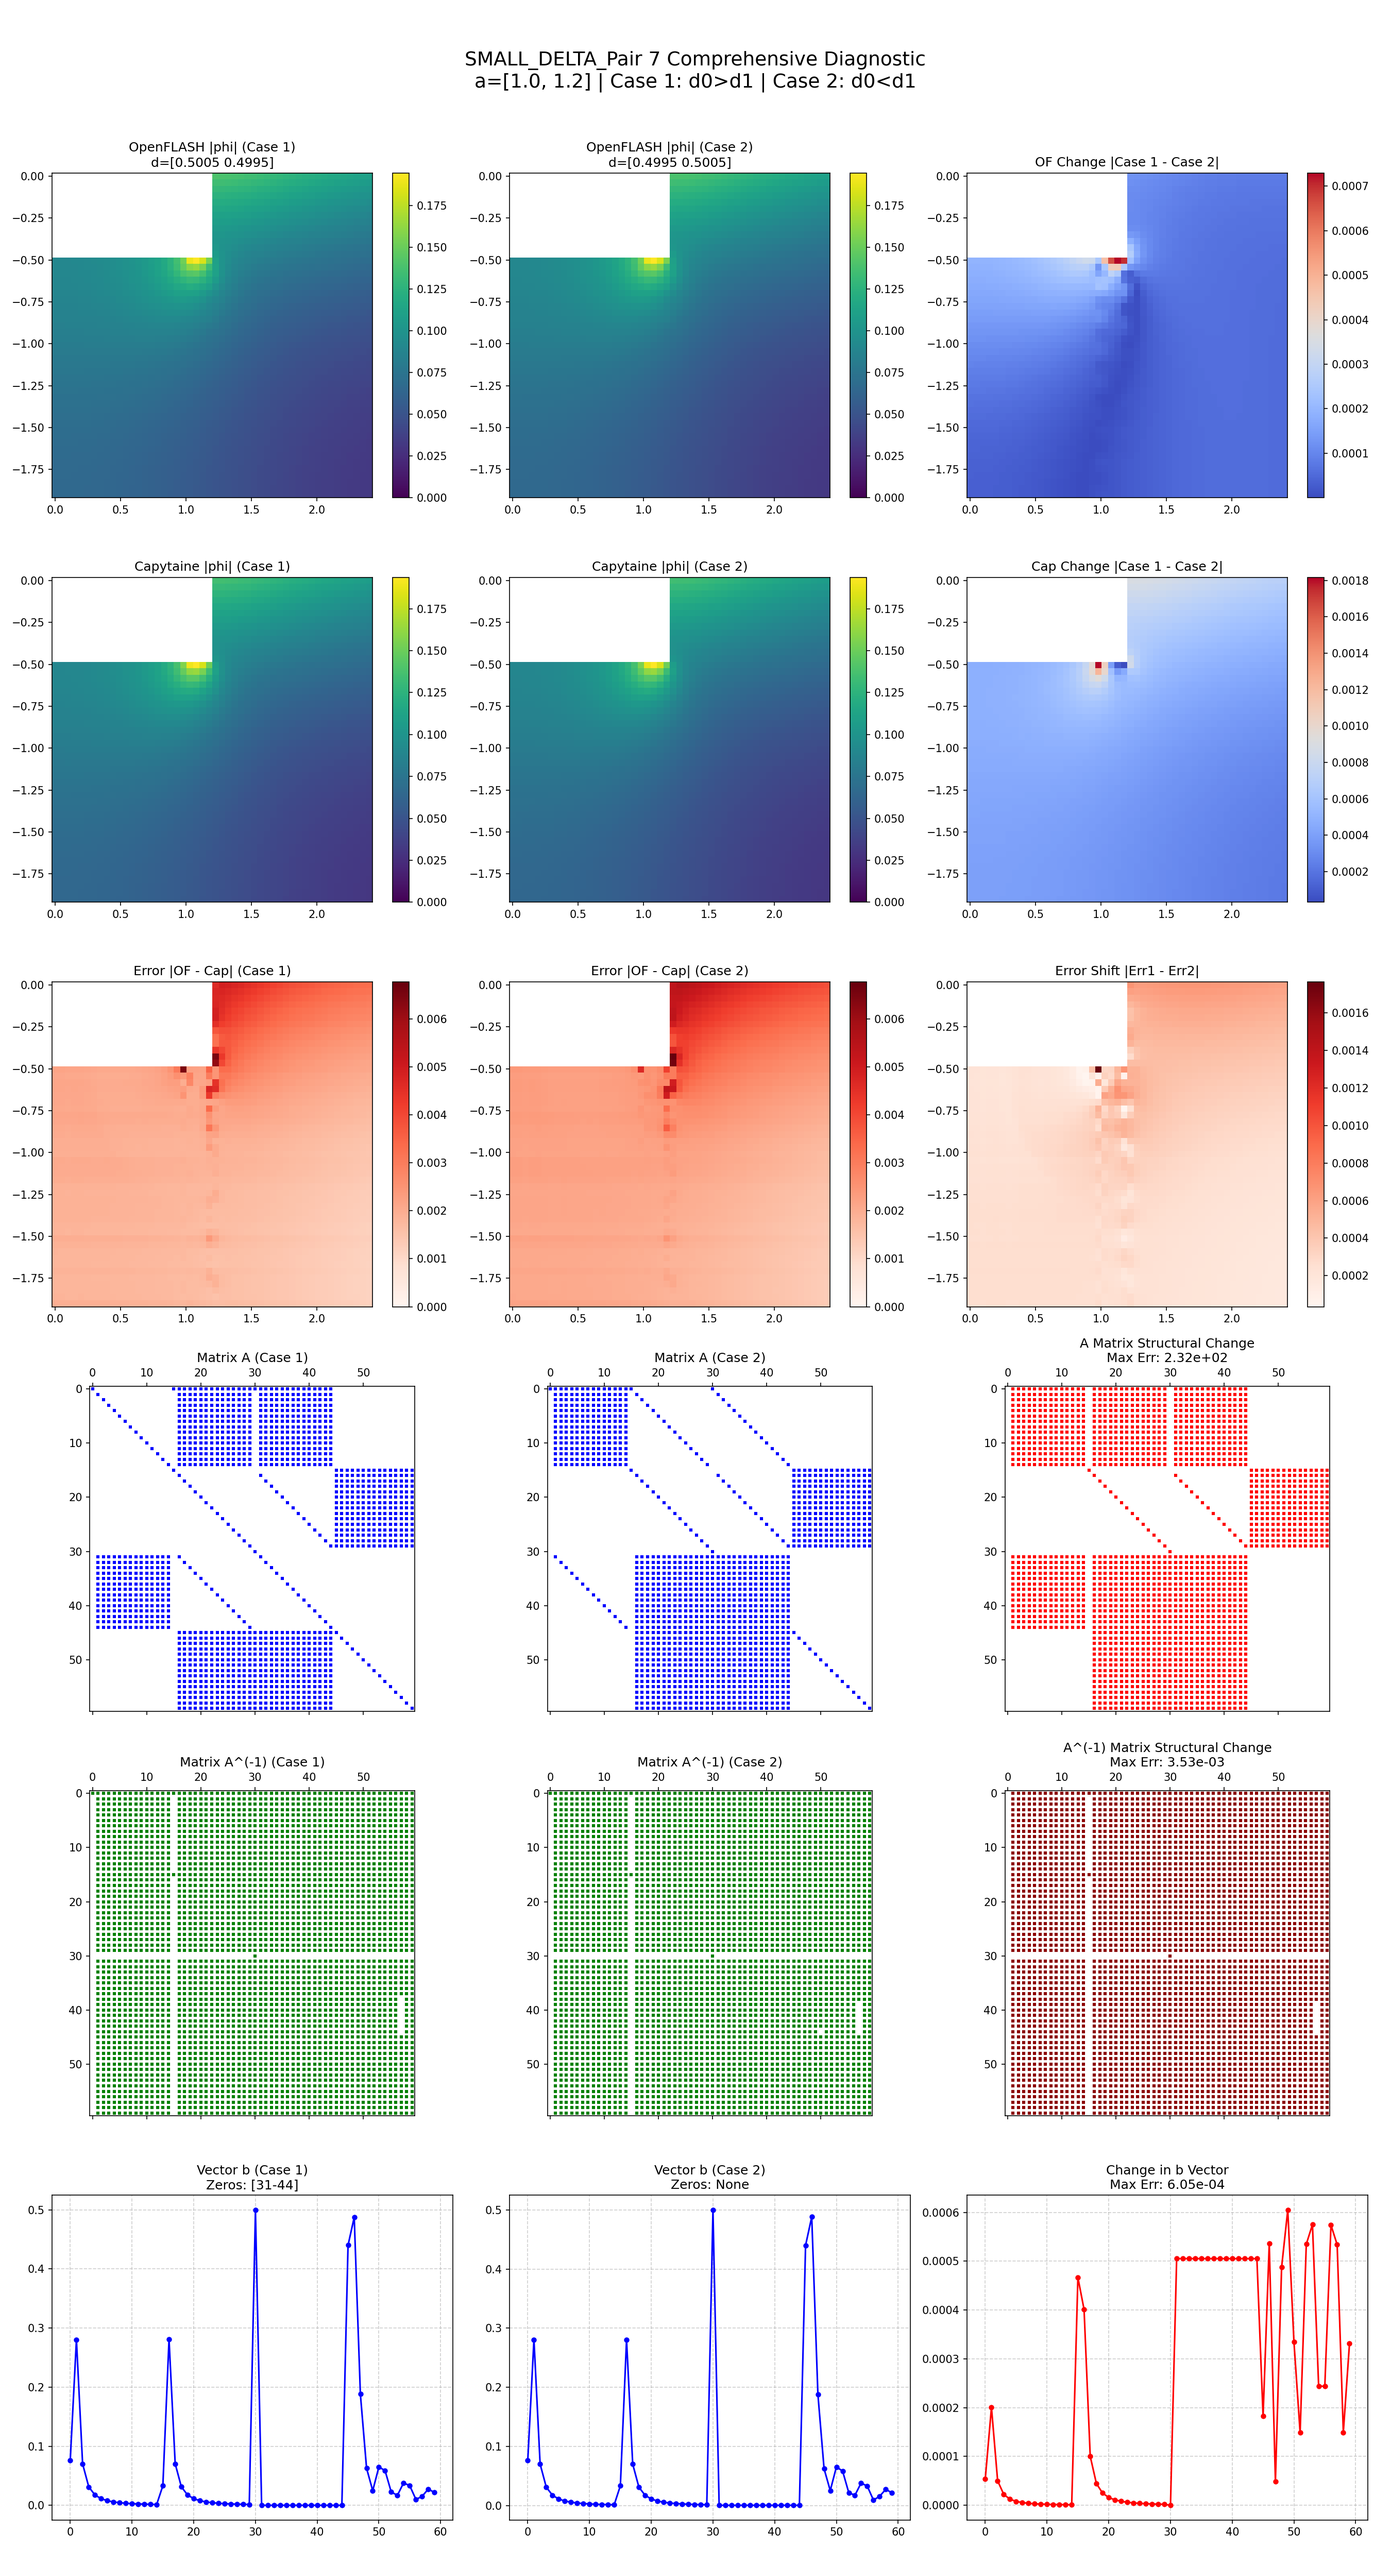
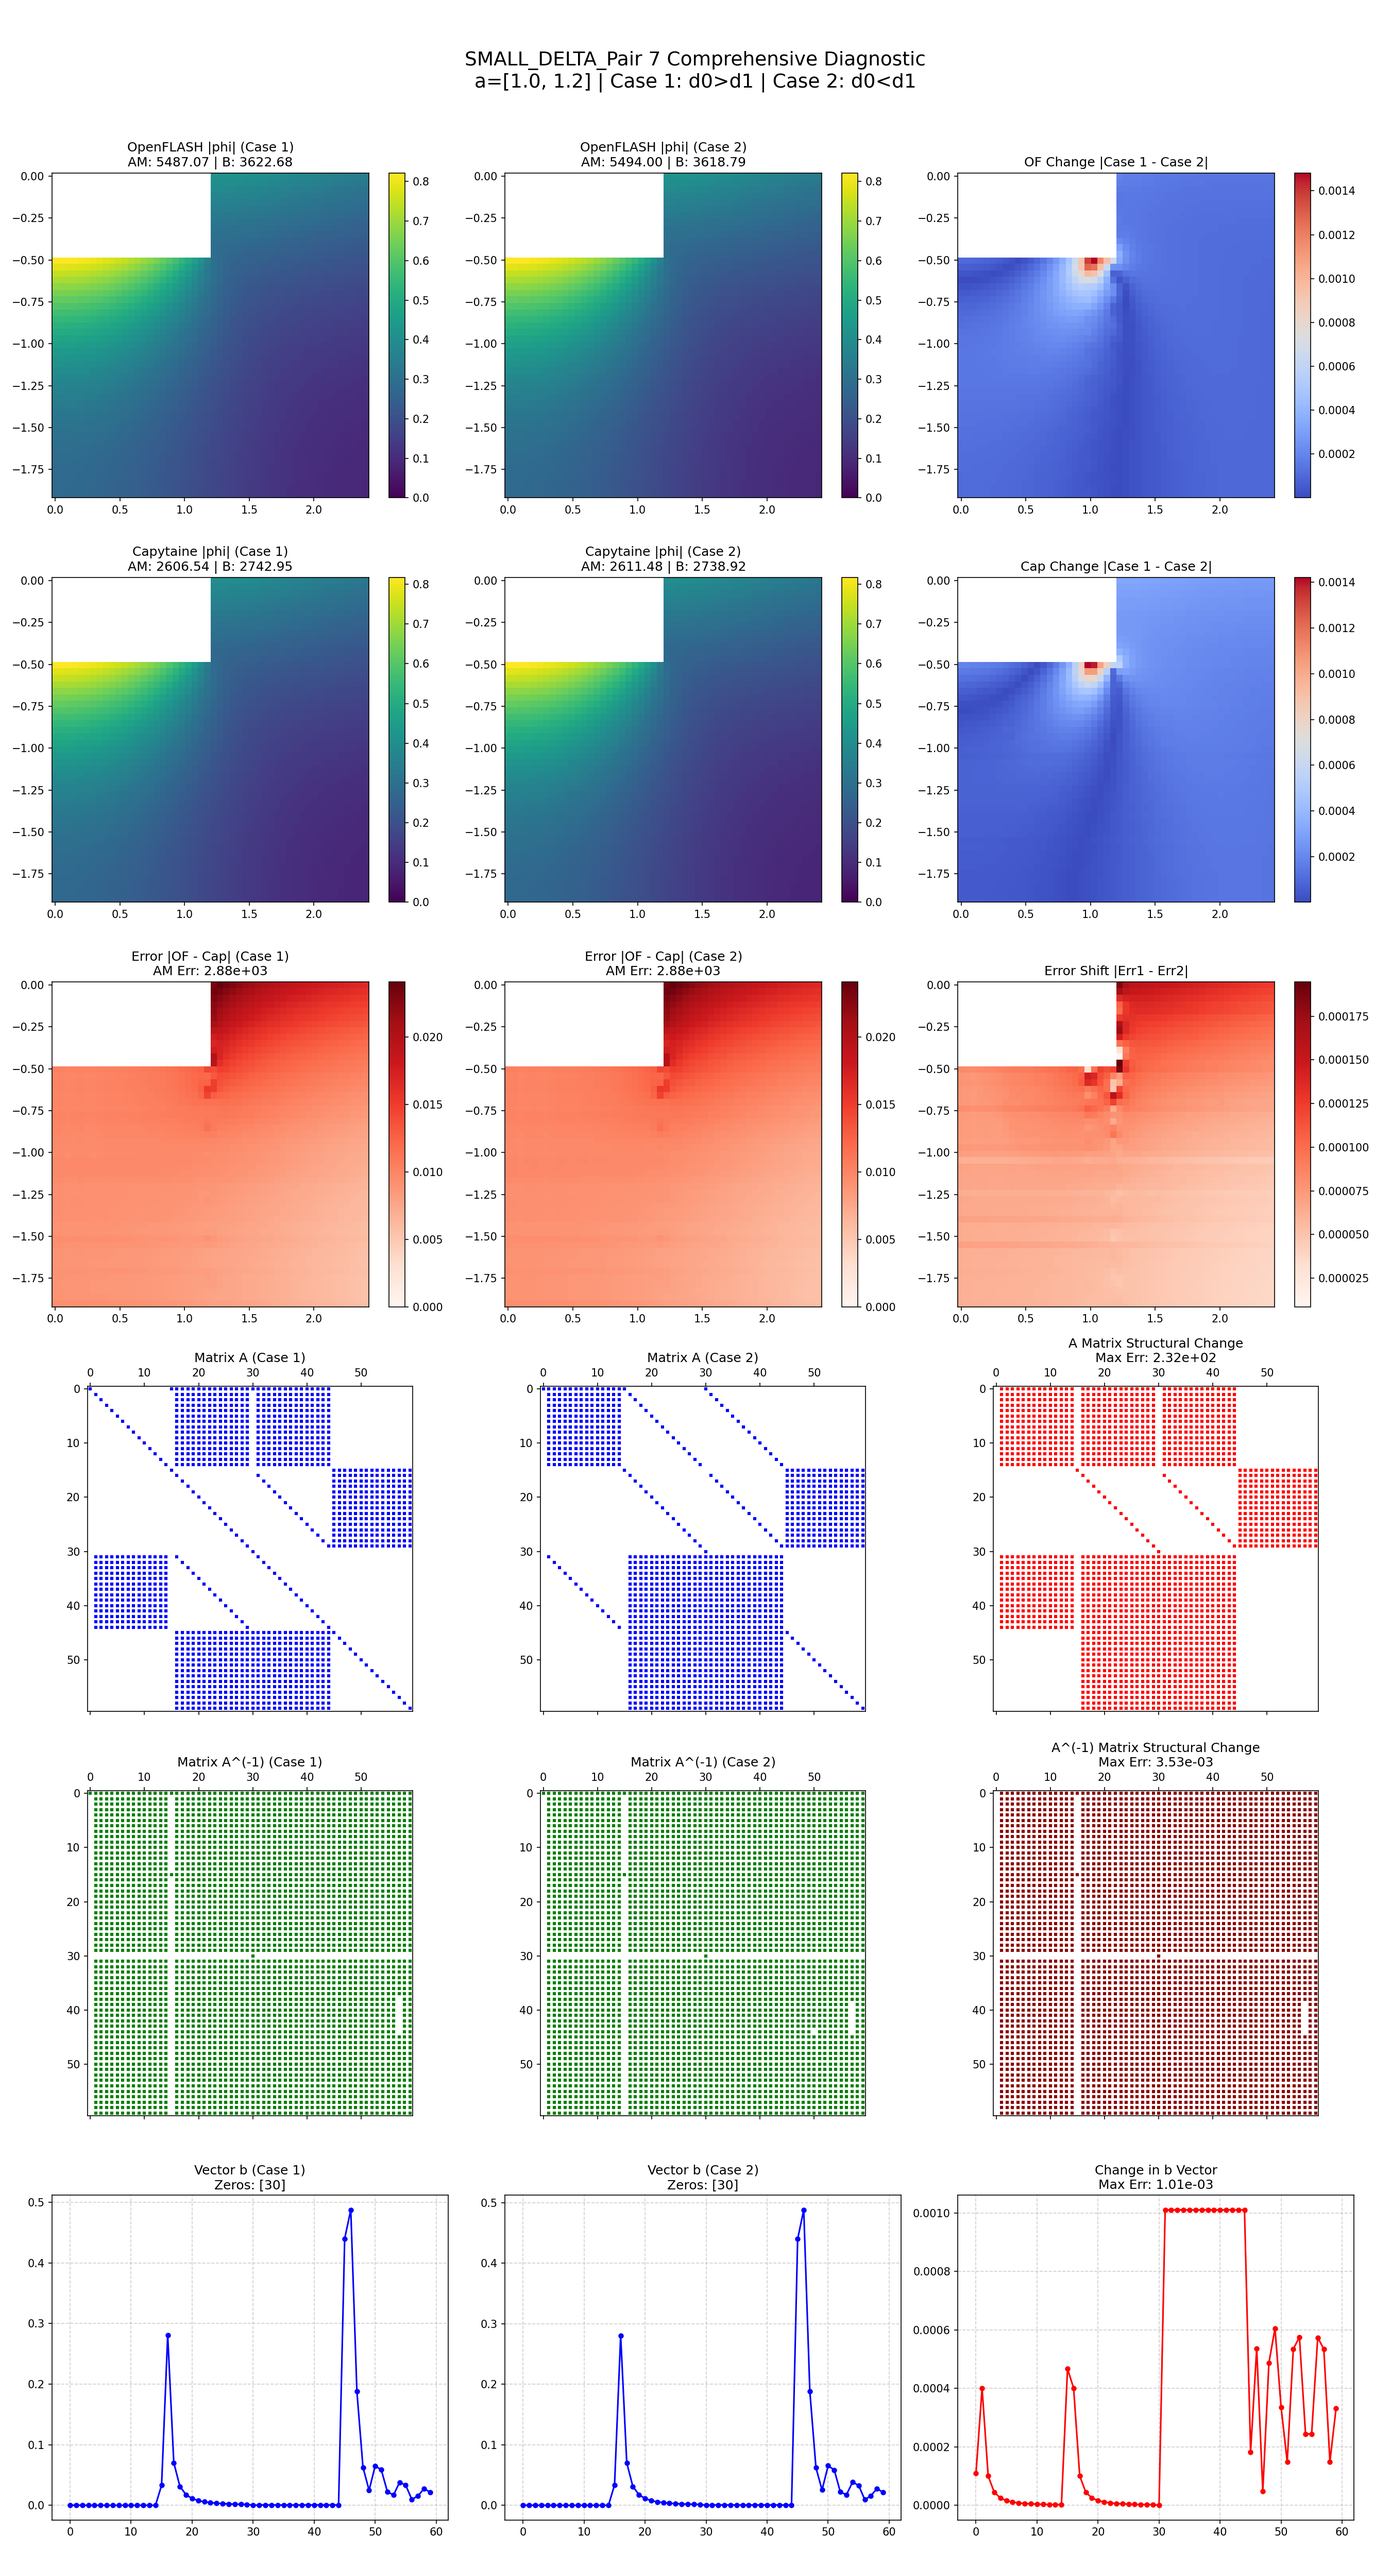
debugging hydrocoeffs

diff --git a/package/test/debug_all_heaving.py b/package/test/debug_all_heaving.py
@@ -34,14 +34,14 @@ for i, sub in enumerate(SUBSETS):
     d_min = min(sub["d"])
     d_max = max(sub["d"])
     
-    # Case 1: d0 > d1 (Inner region is deeper)
+    # Case 1: d0 > d1
     ALL_CONFIGS[f"config3_pair{i+1}_case1"] = {
         "h": 1.9, "a": np.array(sub["a"]), "d": np.array([d_max, d_min]),
         "heaving_map": [True, True], "body_map": [0, 1], "m0": 1.0, "NMK": [15]*3, 
         "R_range": np.linspace(0.0, 2 * sub["a"][1], num=50), "Z_range": np.linspace(0, -1.9, num=50),
     }
     
-    # Case 2: d0 < d1 (Outer region is deeper)
+    # Case 2: d0 < d1
     ALL_CONFIGS[f"config3_pair{i+1}_case2"] = {
         "h": 1.9, "a": np.array(sub["a"]), "d": np.array([d_min, d_max]),
         "heaving_map": [True, True], "body_map": [0, 1], "m0": 1.0, "NMK": [15]*3, 
@@ -49,7 +49,7 @@ for i, sub in enumerate(SUBSETS):
     }
 
 # =====================================================================
-# 2. CAPYTAINE MESH GENERATION (From Notebook)
+# 2. CAPYTAINE MESH GENERATION
 # =====================================================================
 def get_points(a, d):
     d_prime = list(d) + [0]
@@ -106,7 +106,6 @@ def build_capytaine_body(a, d, heaving, t_densities, face_units):
         region = i if p2[1] < p3[1] else i + 1
         meshes, mask, panel_ct = faces_and_heaves(heaving, region, p2, p3, f_densities[2 * i + 1], t_densities[region], meshes, mask, panel_ct)
     
-    # Suppress output warnings for unclosed meshes
     real_stdout = sys.stdout
     sys.stdout = open(os.devnull, "w")
     body = cpt.FloatingBody(meshes)
@@ -116,16 +115,16 @@ def build_capytaine_body(a, d, heaving, t_densities, face_units):
     return body
 
 # =====================================================================
-# 3. ANALYSIS ENGINES (UPDATED FOR SUPERPOSITION)
+# 3. ANALYSIS ENGINES
 # =====================================================================
 def analyze_openflash(config_name):
     p = ALL_CONFIGS[config_name]
     m0, freq = p["m0"], omega(p["m0"], p["h"], g)
     
-    # 1. Build Base Problem to extract Matrix A (A is independent of heaving)
+    # Base matrix A
     geom_base = BasicRegionGeometry.from_vectors(
         a=p["a"], d=p["d"], h=p["h"], NMK=p["NMK"], 
-        body_map=p["body_map"], heaving_map=[True, False] # Satisfies the <=1 assertion
+        body_map=p["body_map"], heaving_map=[True, False] 
     )
     prob_base = MEEMProblem(geom_base)
     prob_base.set_frequencies(np.array([freq]))
@@ -135,12 +134,13 @@ def analyze_openflash(config_name):
     A = engine.assemble_A_multi(prob_base, m0)
     A_inv = np.linalg.inv(A)
     
-    # 2. Superposition Loop
     phi_total = None
     b_total = np.zeros(A.shape[0], dtype=complex)
     
+    AM_matrix = np.zeros((2, 2))
+    B_matrix = np.zeros((2, 2))
+    
     for i in [0, 1]:
-        # Activate one body at a time
         active_map = [False, False]
         active_map[i] = True
         
@@ -152,59 +152,67 @@ def analyze_openflash(config_name):
         prob_i.set_frequencies(np.array([freq]))
         engine_i = MEEMEngine(problem_list=[prob_i])
         
-        # Assemble b and solve for this specific body
         engine_i.update_forcing(prob_i)
         b_i = engine_i.assemble_b_multi(prob_i, m0)
         x_i = np.linalg.solve(A, b_i)
         
-        # Get potentials for this body
+        b_total += b_i
+        
         pot_dict = engine_i.calculate_potentials(
             prob_i, x_i, m0, spatial_res=50, sharp=False, 
             R_range=p["R_range"], Z_range=p["Z_range"]
         )
         
-        # Accumulate the results
-        b_total += b_i
         if phi_total is None:
             phi_total = pot_dict['phi']
-            R = pot_dict['R']
-            Z = pot_dict['Z']
+            R, Z = pot_dict['R'], pot_dict['Z']
         else:
             phi_total += pot_dict['phi']
             
-    return phi_total, R, Z, A, A_inv, b_total, freq
+        # Get 2x2 Hydro Coeffs
+        coeffs = engine_i.compute_hydrodynamic_coefficients(prob_i, x_i, m0, modes_to_calculate=[0, 1], rho=1023)
+        for coeff in coeffs:
+            j = coeff['mode']
+            AM_matrix[j, i] = coeff['real']
+            B_matrix[j, i] = coeff['imag']
+            
+    total_AM = np.sum(AM_matrix)
+    total_B = np.sum(B_matrix)
+        
+    return phi_total, R, Z, A, A_inv, b_total, freq, total_AM, total_B
 
 def analyze_capytaine(config_name, R_grid, Z_grid, omega_val):
     p = ALL_CONFIGS[config_name]
     a, d, h, m0 = p["a"], p["d"], p["h"], p["m0"]
     
-    # Capytaine CAN handle both bodies heaving at once natively
-    active_heaving_map = [True, True] 
-    
-    # Fast mesh settings for debug script
-    body = build_capytaine_body(a, d, active_heaving_map, t_densities=[30, 30], face_units=60)
+    body = build_capytaine_body(a, d, [True, True], t_densities=[30, 30], face_units=60)
     
     solver = cpt.BEMSolver()
     rad_problem = cpt.RadiationProblem(body=body, wavenumber=m0, water_depth=h, rho=1023)
     result = solver.solve(rad_problem)
     
-    # Map points to R_grid, Z_grid (Setting Y=0 for 2D slice)
+    # --- BULLETPROOF EXTRACTION ---
+    # Handle both flat dicts {'Heave': 1.0} and nested dicts {'Heave': {'Heave': 1.0}}
+    am_val = result.added_mass["Heave"]
+    cap_am = float(am_val["Heave"] if isinstance(am_val, dict) else am_val)
+    
+    b_val = result.radiation_damping["Heave"]
+    cap_b = float(b_val["Heave"] if isinstance(b_val, dict) else b_val)
+    # ------------------------------
+    
     points = np.column_stack((R_grid.ravel(), np.zeros_like(R_grid.ravel()), Z_grid.ravel()))
     phi_cap_raw = solver.compute_potential(points, result)
     
-    # Convert Phase/Amplitude to match OpenFLASH
     phi_cap_conv = (phi_cap_raw.imag * (-1.0/omega_val)) + 1j * (phi_cap_raw.real * (1.0/omega_val))
     phi_cap_grid = phi_cap_conv.reshape(R_grid.shape)
     
-    # Mask out inside body
     regions = [(R_grid <= a[0]) & (Z_grid > -d[0])]
     for i in range(1, len(a)):
         regions.append((R_grid > a[i-1]) & (R_grid <= a[i]) & (Z_grid > -d[i]))
     for reg in regions:
         phi_cap_grid[reg] = np.nan
         
-    return phi_cap_grid
-
+    return phi_cap_grid, cap_am, cap_b
 def format_indices(indices):
     if len(indices) == 0: return "None"
     ranges, start, end = [], indices[0], indices[0]
@@ -226,23 +234,30 @@ def run_all_pairs():
         is_small = SUBSETS[i].get("is_small_delta", False)
         prefix = "SMALL_DELTA_" if is_small else "MACRO_"
         
-        print(f"\n{'='*50}\nAnalyzing {prefix}Pair {i+1}\n{'='*50}")
-        assert ALL_CONFIGS[c1_name]["d"][0] != ALL_CONFIGS[c1_name]["d"][1]
+        print(f"\n{'='*60}\nAnalyzing {prefix}Pair {i+1}\n{'='*60}")
 
         # 1. Run OpenFLASH
-        phi_of1, R, Z, A1, A1_inv, b1, w1 = analyze_openflash(c1_name)
-        phi_of2, _, _, A2, A2_inv, b2, w2 = analyze_openflash(c2_name)
+        phi_of1, R, Z, A1, A1_inv, b1, w1, of_am1, of_b1 = analyze_openflash(c1_name)
+        phi_of2, _, _, A2, A2_inv, b2, w2, of_am2, of_b2 = analyze_openflash(c2_name)
         
         # 2. Run Capytaine
         print("  > Solving Capytaine BEM (Case 1)...")
-        phi_cap1 = analyze_capytaine(c1_name, R, Z, w1)
+        phi_cap1, cap_am1, cap_b1 = analyze_capytaine(c1_name, R, Z, w1)
         print("  > Solving Capytaine BEM (Case 2)...")
-        phi_cap2 = analyze_capytaine(c2_name, R, Z, w2)
+        phi_cap2, cap_am2, cap_b2 = analyze_capytaine(c2_name, R, Z, w2)
 
-        # 3. Calculate Errors
+        # 3. Print Hydro Coefficients Table
+        print(f"\n  --- Hydrodynamic Coefficients ---")
+        print(f"  [Case 1] AM | OF: {of_am1:>10.2f} | Cap: {cap_am1:>10.2f} | Err: {abs(of_am1-cap_am1):.2e}")
+        print(f"  [Case 1] B  | OF: {of_b1:>10.2f} | Cap: {cap_b1:>10.2f} | Err: {abs(of_b1-cap_b1):.2e}")
+        print(f"  [Case 2] AM | OF: {of_am2:>10.2f} | Cap: {cap_am2:>10.2f} | Err: {abs(of_am2-cap_am2):.2e}")
+        print(f"  [Case 2] B  | OF: {of_b2:>10.2f} | Cap: {cap_b2:>10.2f} | Err: {abs(of_b2-cap_b2):.2e}")
+        print(f"  [Shift]  AM | OF Δ: {of_am1-of_am2:>9.2e} | Cap Δ: {cap_am1-cap_am2:>9.2e}")
+        print(f"  [Shift]  B  | OF Δ: {of_b1-of_b2:>9.2e} | Cap Δ: {cap_b1-cap_b2:>9.2e}\n")
+
+        # 4. Calculate Errors
         err1 = np.abs(phi_of1 - phi_cap1)
         err2 = np.abs(phi_of2 - phi_cap2)
-
         str_zeros_1 = format_indices(np.where(np.abs(b1) < 1e-10)[0].tolist())
         str_zeros_2 = format_indices(np.where(np.abs(b2) < 1e-10)[0].tolist())
 
@@ -252,37 +267,36 @@ def run_all_pairs():
         fig, axes = plt.subplots(6, 3, figsize=(18, 33))
         fig.suptitle(f"{prefix}Pair {i+1} Comprehensive Diagnostic\na={SUBSETS[i]['a']} | Case 1: d0>d1 | Case 2: d0<d1", fontsize=18)
         
-        # Determine global color scales
         vmax_of = max(np.nanmax(np.abs(phi_of1)), np.nanmax(np.abs(phi_of2)))
         vmax_cap = max(np.nanmax(np.abs(phi_cap1)), np.nanmax(np.abs(phi_cap2)))
         vmax_err = max(np.nanmax(err1), np.nanmax(err2))
 
         # --- ROW 1: OpenFLASH ---
         im = axes[0, 0].pcolormesh(R, Z, np.abs(phi_of1), cmap='viridis', vmin=0, vmax=vmax_of, shading='auto')
-        fig.colorbar(im, ax=axes[0, 0]); axes[0, 0].set_title(f"OpenFLASH |phi| (Case 1)\nd={ALL_CONFIGS[c1_name]['d']}")
+        fig.colorbar(im, ax=axes[0, 0]); axes[0, 0].set_title(f"OpenFLASH |phi| (Case 1)\nAM: {of_am1:.2f} | B: {of_b1:.2f}")
         
         im = axes[0, 1].pcolormesh(R, Z, np.abs(phi_of2), cmap='viridis', vmin=0, vmax=vmax_of, shading='auto')
-        fig.colorbar(im, ax=axes[0, 1]); axes[0, 1].set_title(f"OpenFLASH |phi| (Case 2)\nd={ALL_CONFIGS[c2_name]['d']}")
+        fig.colorbar(im, ax=axes[0, 1]); axes[0, 1].set_title(f"OpenFLASH |phi| (Case 2)\nAM: {of_am2:.2f} | B: {of_b2:.2f}")
         
         im = axes[0, 2].pcolormesh(R, Z, np.abs(np.abs(phi_of1) - np.abs(phi_of2)), cmap='coolwarm', shading='auto')
         fig.colorbar(im, ax=axes[0, 2]); axes[0, 2].set_title("OF Change |Case 1 - Case 2|")
 
         # --- ROW 2: Capytaine ---
         im = axes[1, 0].pcolormesh(R, Z, np.abs(phi_cap1), cmap='viridis', vmin=0, vmax=vmax_cap, shading='auto')
-        fig.colorbar(im, ax=axes[1, 0]); axes[1, 0].set_title("Capytaine |phi| (Case 1)")
+        fig.colorbar(im, ax=axes[1, 0]); axes[1, 0].set_title(f"Capytaine |phi| (Case 1)\nAM: {cap_am1:.2f} | B: {cap_b1:.2f}")
         
         im = axes[1, 1].pcolormesh(R, Z, np.abs(phi_cap2), cmap='viridis', vmin=0, vmax=vmax_cap, shading='auto')
-        fig.colorbar(im, ax=axes[1, 1]); axes[1, 1].set_title("Capytaine |phi| (Case 2)")
+        fig.colorbar(im, ax=axes[1, 1]); axes[1, 1].set_title(f"Capytaine |phi| (Case 2)\nAM: {cap_am2:.2f} | B: {cap_b2:.2f}")
         
         im = axes[1, 2].pcolormesh(R, Z, np.abs(np.abs(phi_cap1) - np.abs(phi_cap2)), cmap='coolwarm', shading='auto')
         fig.colorbar(im, ax=axes[1, 2]); axes[1, 2].set_title("Cap Change |Case 1 - Case 2|")
 
         # --- ROW 3: Error |OF - Cap| ---
         im = axes[2, 0].pcolormesh(R, Z, err1, cmap='Reds', vmin=0, vmax=vmax_err, shading='auto')
-        fig.colorbar(im, ax=axes[2, 0]); axes[2, 0].set_title("Error |OF - Cap| (Case 1)")
+        fig.colorbar(im, ax=axes[2, 0]); axes[2, 0].set_title(f"Error |OF - Cap| (Case 1)\nAM Err: {abs(of_am1-cap_am1):.2e}")
         
         im = axes[2, 1].pcolormesh(R, Z, err2, cmap='Reds', vmin=0, vmax=vmax_err, shading='auto')
-        fig.colorbar(im, ax=axes[2, 1]); axes[2, 1].set_title("Error |OF - Cap| (Case 2)")
+        fig.colorbar(im, ax=axes[2, 1]); axes[2, 1].set_title(f"Error |OF - Cap| (Case 2)\nAM Err: {abs(of_am2-cap_am2):.2e}")
         
         im = axes[2, 2].pcolormesh(R, Z, np.abs(err1 - err2), cmap='Reds', shading='auto')
         fig.colorbar(im, ax=axes[2, 2]); axes[2, 2].set_title("Error Shift |Err1 - Err2|")
@@ -290,10 +304,8 @@ def run_all_pairs():
         # --- ROW 4: A Matrix Sparsity ---
         axes[3, 0].spy(np.abs(A1) > 1e-10, markersize=2, color='blue')
         axes[3, 0].set_title("Matrix A (Case 1)")
-        
         axes[3, 1].spy(np.abs(A2) > 1e-10, markersize=2, color='blue')
         axes[3, 1].set_title("Matrix A (Case 2)")
-        
         diff_A = np.abs(A1 - A2)
         axes[3, 2].spy(diff_A > 1e-10, markersize=2, color='red')
         axes[3, 2].set_title(f"A Matrix Structural Change\nMax Err: {np.max(diff_A):.2e}")
@@ -301,10 +313,8 @@ def run_all_pairs():
         # --- ROW 5: A^(-1) Matrix Sparsity ---
         axes[4, 0].spy(np.abs(A1_inv) > 1e-10, markersize=2, color='green')
         axes[4, 0].set_title("Matrix A^(-1) (Case 1)")
-        
         axes[4, 1].spy(np.abs(A2_inv) > 1e-10, markersize=2, color='green')
         axes[4, 1].set_title("Matrix A^(-1) (Case 2)")
-        
         diff_A_inv = np.abs(A1_inv - A2_inv)
         axes[4, 2].spy(diff_A_inv > 1e-10, markersize=2, color='darkred')
         axes[4, 2].set_title(f"A^(-1) Matrix Structural Change\nMax Err: {np.max(diff_A_inv):.2e}")
